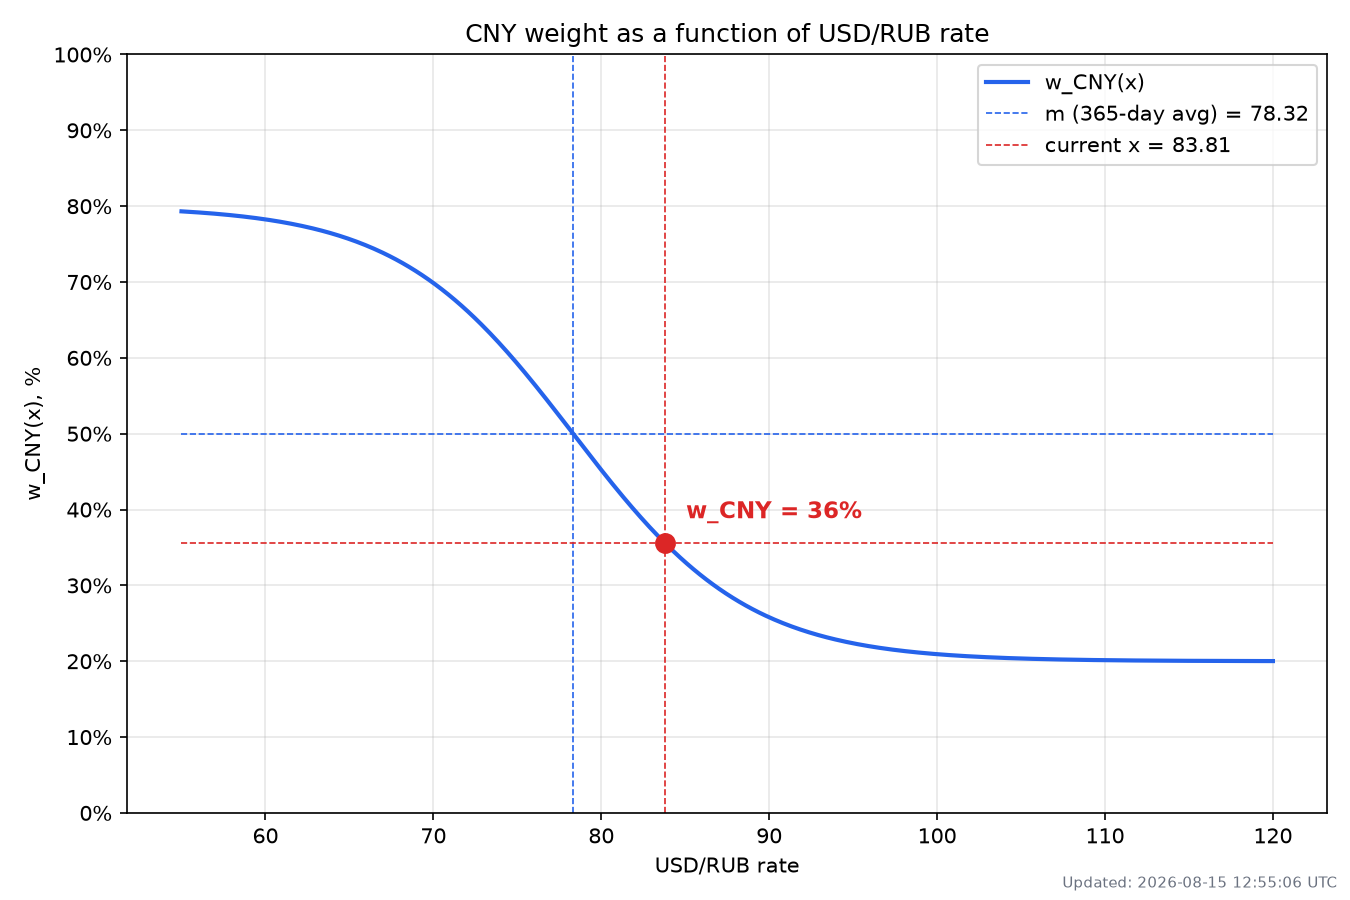
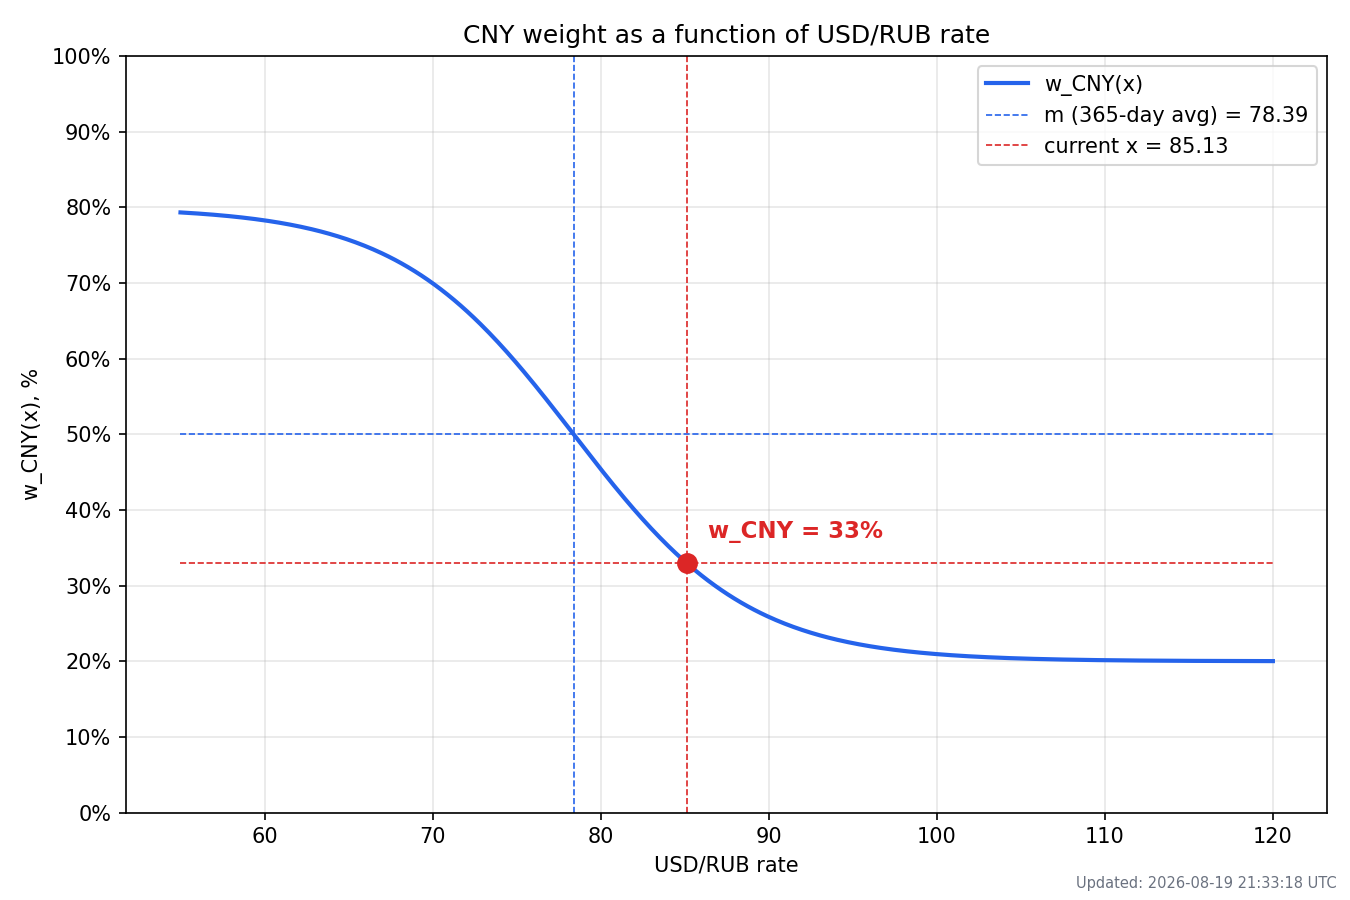
add sigma

diff --git a/usd_rub_tracker/scripts/calc_weights_and_plot.py b/usd_rub_tracker/scripts/calc_weights_and_plot.py
@@ -23,6 +23,20 @@ Outputs:
     usd_rub_tracker/charts/wcny_5y.png
     usd_rub_tracker/REPORT.md
 
+Additionally renders an EXPERIMENTAL volatility-amplified variant, alongside
+(not replacing) the charts above:
+    w_CNY_amplified(x) = 0.20 + 0.60 / (1 + exp(k_eff * (x - m) / m))
+    k_eff = 15 * (sigma_90d / m) / SIGMA_REF
+
+sigma_90d is the 90-day rolling std dev of the rate (from
+data/usd_rub_stats.json). SIGMA_REF is the median historical relative
+volatility (sigma_90d / m) -- at "typical" volatility k_eff ~= 15, matching
+the original formula; in high-volatility regimes the sigmoid gets steeper
+(sharper signal), in calm regimes it gets flatter (smoother signal).
+Outputs:
+    usd_rub_tracker/charts/sigmoid_amplified.png
+    usd_rub_tracker/charts/wcny_5y_amplified.png
+
 Run:
     python scripts/calc_weights_and_plot.py
 """
@@ -53,9 +67,17 @@ HISTORY_5Y_PATH = REPO_ROOT / "data" / "usd_rub_history_5y.csv"
 STATS_PATH = REPO_ROOT / "data" / "usd_rub_stats.json"
 PLOT_PATH = PROJECT_ROOT / "charts" / "sigmoid.png"
 WCNY_5Y_PLOT_PATH = PROJECT_ROOT / "charts" / "wcny_5y.png"
+AMPLIFIED_PLOT_PATH = PROJECT_ROOT / "charts" / "sigmoid_amplified.png"
+AMPLIFIED_WCNY_5Y_PLOT_PATH = PROJECT_ROOT / "charts" / "wcny_5y_amplified.png"
 REPORT_PATH = PROJECT_ROOT / "REPORT.md"
 
 ROLLING_WINDOW_DAYS = 365
+SIGMA_WINDOW_DAYS = 90
+# Median historical (sigma_90d / m) ratio, from usd_rub_history_5y.csv.
+# At this "typical" volatility level, k_eff below reduces to the original
+# fixed k=15 -- so the amplified formula matches the original at typical
+# volatility and diverges only in unusually calm or turbulent regimes.
+SIGMA_REF = 0.0209
 
 
 def read_rates(path: Path = CSV_PATH) -> list[float]:
@@ -75,12 +97,37 @@ def read_stats(path: Path = STATS_PATH) -> tuple[float, float]:
     return float(stats["x"]), float(stats["m"])
 
 
+def read_sigma(path: Path = STATS_PATH) -> float | None:
+    """sigma_90d is an additional stats.json field, used only by the
+    volatility-amplified variant. May be absent on older stats.json files
+    or before enough history has accumulated."""
+    stats = json.loads(path.read_text(encoding="utf-8"))
+    sigma = stats.get("sigma_90d")
+    return float(sigma) if sigma is not None else None
+
+
 def w_cny(x: float, m: float) -> float:
     return 0.20 + 0.60 / (1 + np.exp(15 * (x - m) / m))
 
 
 def w_rub(x: float, m: float) -> float:
     return 1 - w_cny(x, m)
+
+
+def w_cny_amplified(x, m, sigma):
+    """Experimental variant: sensitivity (the exponent's k) scales with
+    relative volatility instead of being fixed at 15. Higher volatility ->
+    steeper sigmoid (sharper buy/sell signal); lower volatility -> flatter
+    sigmoid (calmer signal). Falls back to the original formula if sigma is
+    unavailable. Does not replace w_cny()."""
+    if sigma is None:
+        return w_cny(x, m)
+    k_eff = 15 * (sigma / m) / SIGMA_REF
+    return 0.20 + 0.60 / (1 + np.exp(k_eff * (x - m) / m))
+
+
+def w_rub_amplified(x, m, sigma):
+    return 1 - w_cny_amplified(x, m, sigma)
 
 
 X_AXIS_MIN = 55
@@ -187,6 +234,133 @@ def build_wcny_5y_plot(history_5y: list[tuple[str, float]], out_path: Path) -> N
     plt.close(fig)
 
 
+def build_amplified_plot(rates: list[float], x: float, m: float, sigma: float | None,
+                          current_w_cny_amp: float, out_path: Path) -> None:
+    """Same layout as build_plot(), but for the volatility-amplified variant.
+    Draws both curves (original fixed-k and amplified) so the difference in
+    steepness is visible directly. Does not touch build_plot()/sigmoid.png."""
+    axis_min = min(X_AXIS_MIN, min(rates), x, m)
+    axis_max = max(X_AXIS_MAX, max(rates), x, m)
+    x_range = np.linspace(axis_min, axis_max, 500)
+    y_range_orig = w_cny(x_range, m) * 100
+    y_range_amp = w_cny_amplified(x_range, m, sigma) * 100
+
+    fig, ax = plt.subplots(figsize=(9, 6))
+    ax.plot(x_range, y_range_orig, color="#9ca3af", linewidth=1.5, linestyle="--",
+            label="w_CNY(x) original (fixed k=15)")
+    ax.plot(x_range, y_range_amp, color="#7c3aed", linewidth=2,
+            label="w_CNY(x) amplified (k scales with volatility)")
+    ax.axvline(m, color="#7c3aed", linestyle="--", linewidth=0.8, label=f"m (365-day avg) = {m:.2f}")
+    ax.axvline(x, color="#dc2626", linestyle="--", linewidth=0.8, label=f"current x = {x:.2f}")
+    ax.hlines(current_w_cny_amp * 100, x_range[0], x_range[-1], color="#dc2626", linestyle="--", linewidth=0.8)
+    ax.plot([x], [current_w_cny_amp * 100], marker="o", markersize=9, color="#dc2626", zorder=5)
+    sigma_label = f"{sigma:.2f}" if sigma is not None else "n/a"
+    ax.annotate(
+        f"w_CNY = {current_w_cny_amp:.0%} (sigma_90d={sigma_label})",
+        xy=(x, current_w_cny_amp * 100),
+        xytext=(10, 12),
+        textcoords="offset points",
+        fontsize=10,
+        fontweight="bold",
+        color="#dc2626",
+    )
+
+    ax.set_xlabel("USD/RUB rate")
+    ax.set_ylabel("w_CNY(x), %")
+    ax.set_title("CNY weight (EXPERIMENTAL: sensitivity amplified by volatility)")
+    ax.set_ylim(0, 100)
+    ax.yaxis.set_major_locator(plt.MultipleLocator(10))
+    ax.yaxis.set_major_formatter(lambda v, _pos: f"{v:.0f}%")
+    ax.grid(True, alpha=0.3)
+    ax.legend(loc="best", fontsize=8)
+    fig.text(0.99, 0.01, f"Updated: {utc_timestamp()}", color="#6b7280", fontsize=7,
+              ha="right", va="bottom")
+
+    out_path.parent.mkdir(parents=True, exist_ok=True)
+    fig.tight_layout()
+    fig.savefig(out_path, dpi=150)
+    plt.close(fig)
+
+
+def build_wcny_5y_amplified_plot(history_5y: list[tuple[str, float]], out_path: Path) -> None:
+    """Same layout as build_wcny_5y_plot(), but using the volatility-amplified
+    formula with a trailing 90-day rolling sigma computed from the same
+    history. Does not touch build_wcny_5y_plot()/wcny_5y.png."""
+    dates = [date.fromisoformat(d) for d, _ in history_5y]
+    rates = np.array([r for _, r in history_5y])
+
+    cumsum = np.cumsum(rates)
+    cumsum2 = np.cumsum(rates ** 2)
+    n = len(rates)
+    if n < ROLLING_WINDOW_DAYS:
+        print(f"Not enough history for a {ROLLING_WINDOW_DAYS}-day rolling average; skipping amplified plot.")
+        return
+
+    rolling_m = np.full(n, np.nan)
+    rolling_m[ROLLING_WINDOW_DAYS - 1] = cumsum[ROLLING_WINDOW_DAYS - 1] / ROLLING_WINDOW_DAYS
+    for i in range(ROLLING_WINDOW_DAYS, n):
+        window_sum = cumsum[i] - cumsum[i - ROLLING_WINDOW_DAYS]
+        rolling_m[i] = window_sum / ROLLING_WINDOW_DAYS
+
+    rolling_sigma = np.full(n, np.nan)
+    if n >= SIGMA_WINDOW_DAYS:
+        rolling_sigma[SIGMA_WINDOW_DAYS - 1] = np.sqrt(
+            max(cumsum2[SIGMA_WINDOW_DAYS - 1] / SIGMA_WINDOW_DAYS
+                - (cumsum[SIGMA_WINDOW_DAYS - 1] / SIGMA_WINDOW_DAYS) ** 2, 0)
+        )
+        for i in range(SIGMA_WINDOW_DAYS, n):
+            window_sum = cumsum[i] - cumsum[i - SIGMA_WINDOW_DAYS]
+            window_sum2 = cumsum2[i] - cumsum2[i - SIGMA_WINDOW_DAYS]
+            mean = window_sum / SIGMA_WINDOW_DAYS
+            var = max(window_sum2 / SIGMA_WINDOW_DAYS - mean ** 2, 0)
+            rolling_sigma[i] = np.sqrt(var)
+
+    valid = ~np.isnan(rolling_m) & ~np.isnan(rolling_sigma)
+    if not valid.any():
+        print("Not enough history for sigma_90d yet; skipping amplified plot.")
+        return
+
+    plot_dates = [d for d, v in zip(dates, valid) if v]
+    plot_x = rates[valid]
+    plot_m = rolling_m[valid]
+    plot_sigma = rolling_sigma[valid]
+    plot_w_cny_amp = w_cny_amplified(plot_x, plot_m, plot_sigma) * 100
+
+    fig, ax = plt.subplots(figsize=(12, 6))
+    ax.plot(plot_dates, plot_w_cny_amp, color="#7c3aed", linewidth=1.5, label="w_CNY(t) amplified")
+    for level in (20, 50, 80):
+        ax.axhline(level, color="#6b7280", linestyle="--", linewidth=0.6)
+
+    ax.set_xlabel("Date")
+    ax.set_ylabel("w_CNY(t), %", color="#7c3aed")
+    ax.set_title("CNY weight over time (EXPERIMENTAL: sensitivity amplified by 90-day rolling volatility)")
+    ax.set_ylim(0, 100)
+    ax.yaxis.set_major_locator(plt.MultipleLocator(10))
+    ax.yaxis.set_major_formatter(lambda v, _pos: f"{v:.0f}%")
+    ax.tick_params(axis="y", labelcolor="#7c3aed")
+    ax.xaxis.set_major_formatter(mdates.DateFormatter("%Y"))
+    ax.xaxis.set_major_locator(mdates.YearLocator())
+    plt.setp(ax.get_xticklabels(), rotation=45, ha="right")
+    ax.grid(True, alpha=0.3)
+
+    ax2 = ax.twinx()
+    ax2.plot(plot_dates, plot_x, color="#9ca3af", linewidth=1, alpha=0.7, label="USD/RUB rate")
+    ax2.set_ylabel("USD/RUB rate", color="#9ca3af")
+    ax2.tick_params(axis="y", labelcolor="#9ca3af")
+
+    lines1, labels1 = ax.get_legend_handles_labels()
+    lines2, labels2 = ax2.get_legend_handles_labels()
+    ax.legend(lines1 + lines2, labels1 + labels2, loc="upper left")
+
+    fig.text(0.99, 0.01, f"Updated: {utc_timestamp()}", color="#6b7280", fontsize=7,
+              ha="right", va="bottom")
+
+    out_path.parent.mkdir(parents=True, exist_ok=True)
+    fig.tight_layout()
+    fig.savefig(out_path, dpi=150)
+    plt.close(fig)
+
+
 def build_report(today: date, x: float, m: float, cny: float, rub: float, report_path: Path) -> None:
     plot_rel_path = "charts/sigmoid.png"
     wcny_5y_rel_path = "charts/wcny_5y.png"
@@ -221,23 +395,31 @@ def main() -> int:
         return 1
 
     x, m = read_stats()
+    sigma = read_sigma()
 
     cny = float(w_cny(x, m))
     rub = float(w_rub(x, m))
+    cny_amp = float(w_cny_amplified(x, m, sigma))
 
     build_plot(rates, x, m, cny, PLOT_PATH)
+    build_amplified_plot(rates, x, m, sigma, cny_amp, AMPLIFIED_PLOT_PATH)
 
     if HISTORY_5Y_PATH.exists():
         history_5y = read_history(HISTORY_5Y_PATH)
         build_wcny_5y_plot(history_5y, WCNY_5Y_PLOT_PATH)
         print(f"Saved 5-year plot to {WCNY_5Y_PLOT_PATH}")
+        build_wcny_5y_amplified_plot(history_5y, AMPLIFIED_WCNY_5Y_PLOT_PATH)
+        print(f"Saved amplified 5-year plot to {AMPLIFIED_WCNY_5Y_PLOT_PATH}")
     else:
         print(f"5-year history not found ({HISTORY_5Y_PATH}); skipping wcny_5y plot.", file=sys.stderr)
 
     build_report(date.today(), x, m, cny, rub, REPORT_PATH)
 
+    sigma_str = f"{sigma:.4f}" if sigma is not None else "n/a"
     print(f"x={x:.4f} m={m:.4f} w_CNY={cny:.4f} w_RUB={rub:.4f}")
+    print(f"sigma_90d={sigma_str} w_CNY_amplified={cny_amp:.4f}")
     print(f"Saved plot to {PLOT_PATH}")
+    print(f"Saved amplified plot to {AMPLIFIED_PLOT_PATH}")
     print(f"Saved report to {REPORT_PATH}")
     return 0
 

diff --git a/usd_rub_tracker/scripts/update_usd_rub.py b/usd_rub_tracker/scripts/update_usd_rub.py
@@ -46,6 +46,7 @@ STATS_PATH = REPO_ROOT / "data" / "usd_rub_stats.json"
 
 REQUEST_TIMEOUT = 30
 HISTORY_DAYS = 365
+SIGMA_WINDOW_DAYS = 90
 
 
 def fetch_recent_usd_rub_rates() -> list[tuple[str, float]]:
@@ -134,6 +135,18 @@ def forward_fill_gap(
     return filled
 
 
+def compute_sigma(history: list[tuple[str, float]], window: int = SIGMA_WINDOW_DAYS) -> float | None:
+    """Population std dev of rate over the trailing `window` days of history
+    (None if there isn't enough history yet). Used only by the additional,
+    volatility-amplified sensitivity variant -- does not affect m or x."""
+    if len(history) < window:
+        return None
+    recent_rates = [rate for _, rate in history[-window:]]
+    mean = sum(recent_rates) / window
+    var = sum((r - mean) ** 2 for r in recent_rates) / window
+    return var ** 0.5
+
+
 def write_stats(
     history: list[tuple[str, float]], latest_date: str, latest_rate: float, path: Path = STATS_PATH
 ) -> None:
@@ -141,10 +154,16 @@ def write_stats(
     m is the 365-day average computed strictly from history (days that
     have already started). x is the single most recently published CBR
     rate, which may be dated later than history's last row.
+
+    sigma_90d is an additional field (90-day rolling std dev of the rate,
+    from the same history) used only to explore a volatility-amplified
+    variant of the w_CNY sensitivity -- it does not change x, m, or the
+    existing w_CNY(x) formula.
     """
     rates = [rate for _, rate in history]
     m = sum(rates) / len(rates)
-    stats = {"date": latest_date, "x": latest_rate, "m": m}
+    sigma_90d = compute_sigma(history)
+    stats = {"date": latest_date, "x": latest_rate, "m": m, "sigma_90d": sigma_90d}
     path.parent.mkdir(parents=True, exist_ok=True)
     path.write_text(json.dumps(stats, indent=2) + "\n", encoding="utf-8")
 

diff --git a/usd_rub_tracker/REPORT.md b/usd_rub_tracker/REPORT.md
@@ -1,12 +1,12 @@
 # USD/RUB Weight Report
 
-**Date:** 2026-08-15
-**Updated:** 2026-08-15 12:55:07 UTC
+**Date:** 2026-08-20
+**Updated:** 2026-08-19 21:33:19 UTC
 
-- Current USD/RUB rate (x): **83.8058**
-- 365-day average USD/RUB rate (m): **78.3243**
-- w_CNY(x): **36%**
-- w_RUB(x): **64%**
+- Current USD/RUB rate (x): **85.1293**
+- 365-day average USD/RUB rate (m): **78.3907**
+- w_CNY(x): **33%**
+- w_RUB(x): **67%**
 
 ![Sigmoid weight curve](charts/sigmoid.png)
 
